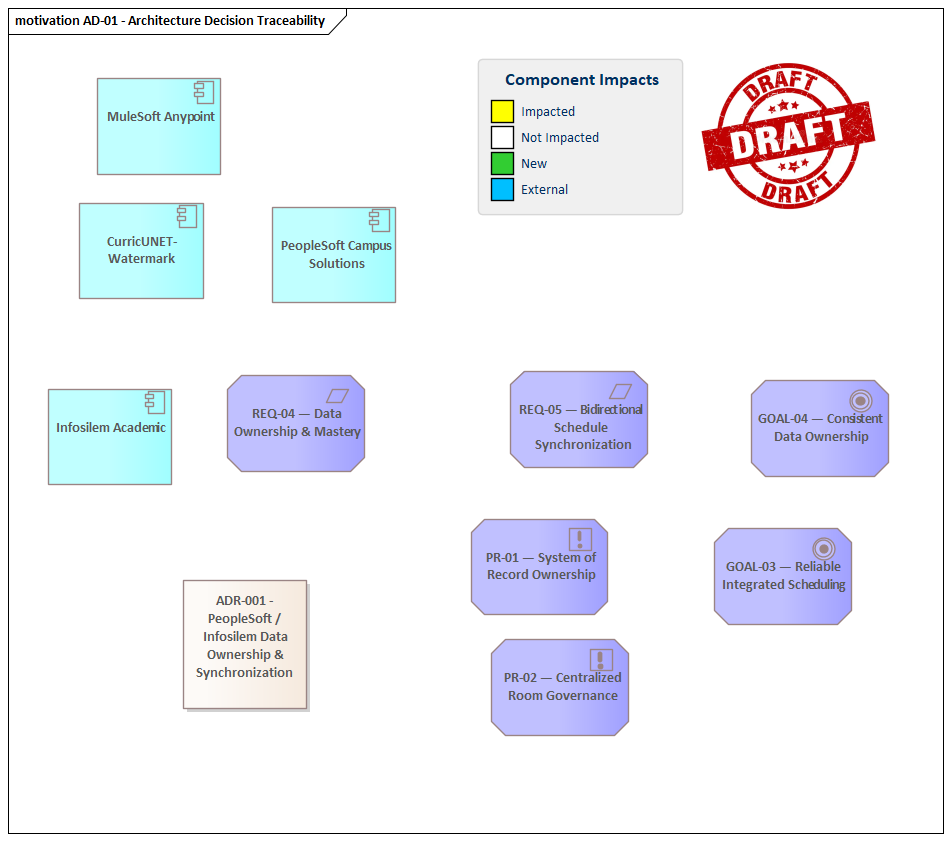
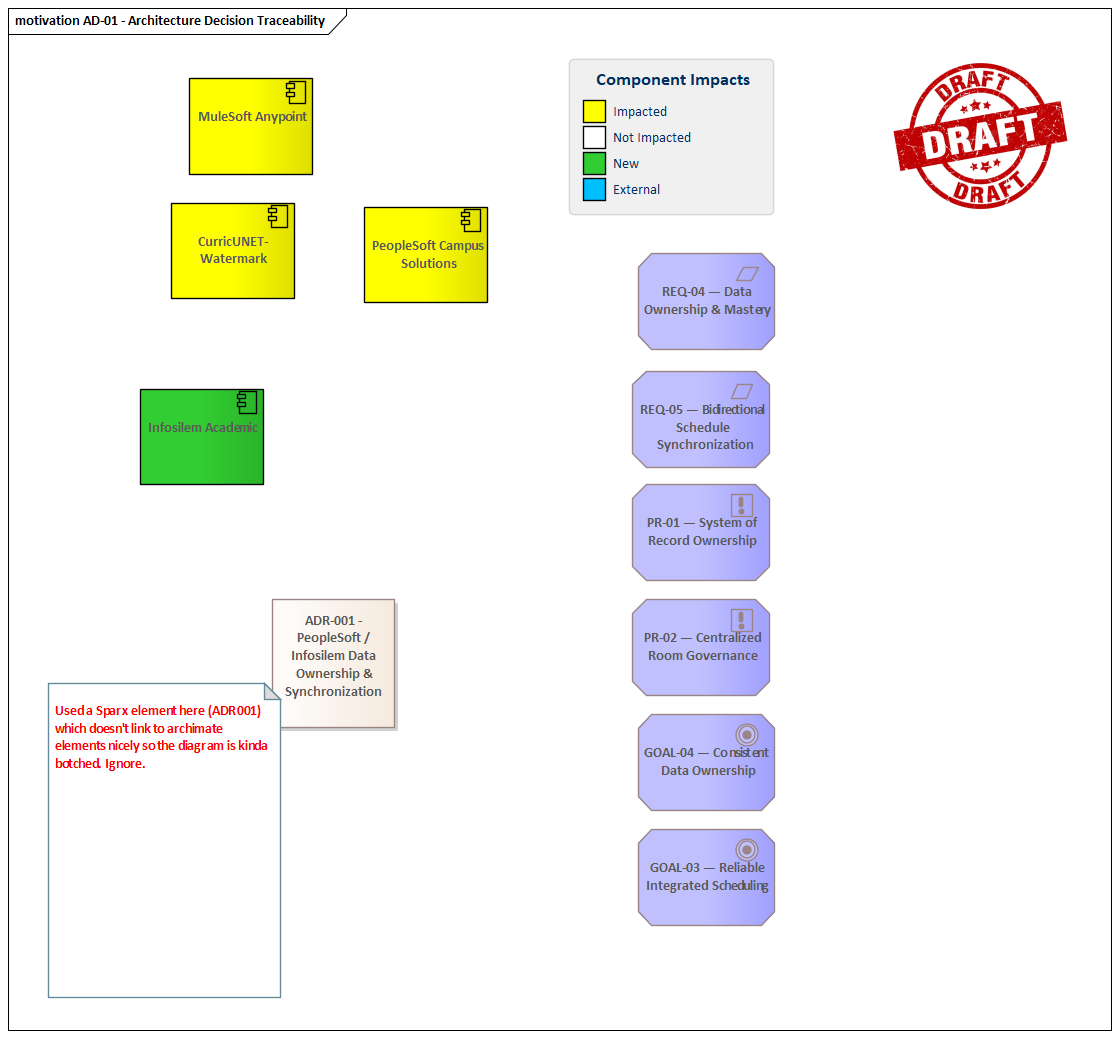
added section 16

diff --git a/uofa-architecture.html b/uofa-architecture.html
@@ -423,6 +423,7 @@
     <a href="#artifacts">13. Architecture Artifacts</a>
     <a href="#adr">14. Architecture Decision Record</a>
     <a href="#success">15. Success Measures</a>
+      <a href="#final">16. Final Thoughts</a>
   </nav>
 
   <main class="content">
@@ -488,6 +489,8 @@
         organizing principles.
       </p>
     </section>
+
+    
 
     <!-- VISION -->
 
@@ -2451,15 +2454,29 @@ Published Schedule
           and the institution can operate comprehensive optimization together
           with timely downstream schedule propagation.
         </p>
-      </div>
-    </section>
+    
+      <!-- FINAL THOUGHTS -->
 
-    <div class="footer">
-      ASSO Architecture Approach &amp; Execution · Metropolitan State University
-    </div>
+      <section id="final">
+        <h2>16. Final Thoughts</h2>
+        <div class="adm-label">Concluding observations and scope notes</div>
 
-  </main>
-</div>
+        <ol>
+          <li>
+            The architecture core of the case study is essentially that of data ownership: <strong>Data ownership → lifecycle authority → synchronization/update strategy → conflict resolution.</strong>
+          </li>
 
-</body>
-</html>
+          <li>
+            Lifecycle authority should be relegated to a system outside the middleware (avoid putting business logic within the middleware!) but is excluded from the discussion as it's believed to be beyond the scope of the response (but it was noticed).
+          </li>
+
+          <li>
+            Other UML views such as deployment view etc, is withheld due to perceived scope of the study.
+          </li>
+
+          <li>
+            I forgot to mention I'm certified in Mulesoft Anypoint ops-stuff. 
+          </li>
+          
+        </ol>
+      </section>
